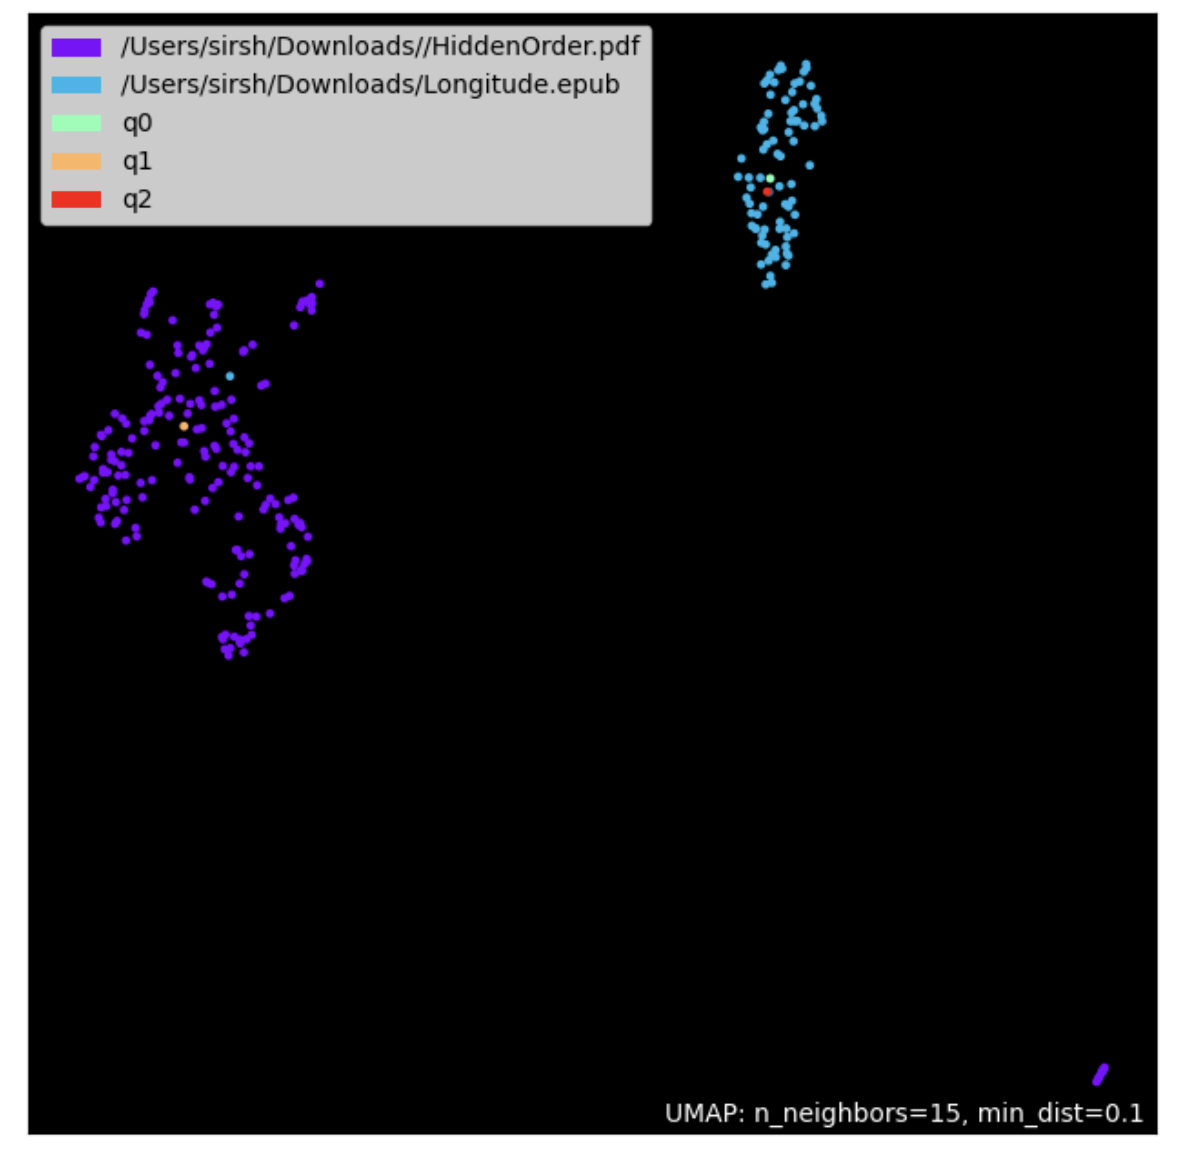
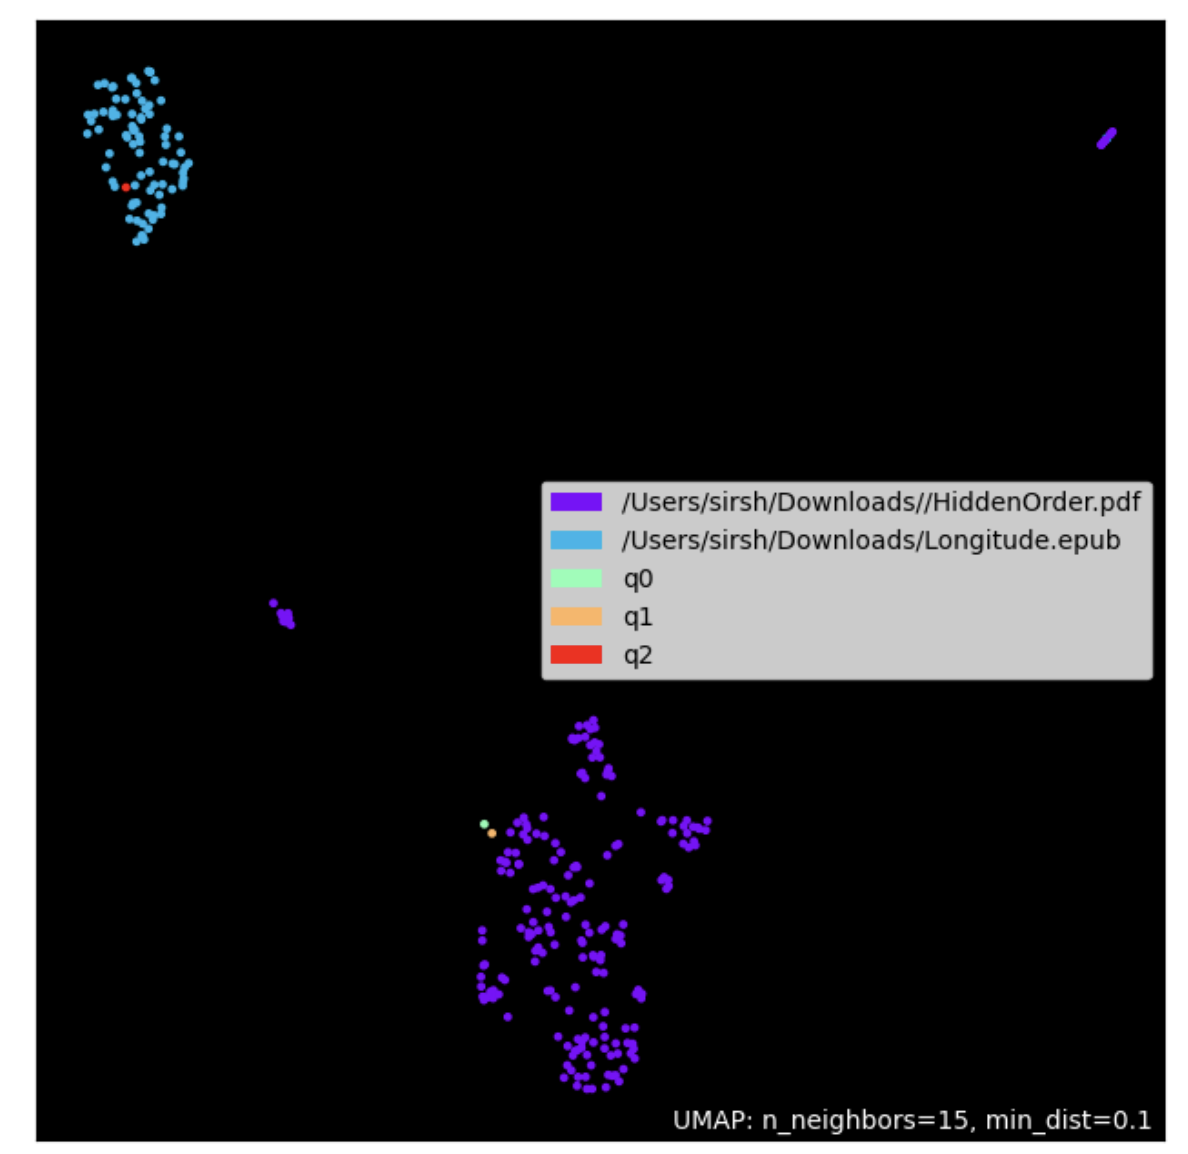
GITBOOK-23: change request with no subject merged in GitBook

diff --git a/docs/tutorials/1.-ingesting-data-into-a-new-instance.md b/docs/tutorials/1.-ingesting-data-into-a-new-instance.md
@@ -24,11 +24,11 @@ Unstructured data can be ingested into a named store by just pointing to a web p
 &#x20; Suppose you want to ingest a web page about FairyTales into a vector store
 
 ```python
-from funkyprompt.ops.entities import AbstractVectorStoreEntry
+from funkyprompt.model import InstructEmbeddingContentModel
 #source your data
 url = "https://www.gutenberg.org/files/20748/20748-h/20748-h.htm"
 #create a type for it - it does not need any attributes unless you want to add some
-class FairyTales(AbstractVectorStoreEntry):
+class FairyTales(InstructEmbeddingContentModel):
     pass
 ```
 
@@ -41,12 +41,12 @@ data = list(iterate_types_from_headed_paragraphs(url, FairyTales))
 
 Once you have typed data you can ingest it into a store (called FairyTales) in this case
 
-<pre class="language-python"><code class="lang-python">from funkyprompt.io.stores import VectorDataStore 
-#this will take a moment to generate the embeddings - by default OpenAI embeddings
+<pre class="language-python"><code class="lang-python">from funkyprompt.io import VectorDataStore 
+#this will take a moment to generate the embeddings  
 <strong>vs = VectorDataStore(FairyTales)
 </strong><strong>vs.add(data)
 </strong># ask some questions
-# vs("who is sinbad?")
+# vs("where did sinbad eventually settle down?")
 </code></pre>
 
 {% hint style="info" %}
@@ -55,15 +55,15 @@ To you other embeddings like Instruct check out the tutorial [5.-working-with-ve
 
 Now that we have data we can use this with our agent.
 
-The store can can allow is to ask questions and retrieve records. To make it explicty lets create a new function that loads this store and pass that to the agent. In practice we will want a more convenient discovery method but lets not get ahead of ourselves
+The store can can allow us to ask questions and retrieve records. To make it explicit lets create a new function that loads this store and pass that to the agent. In practice we will want a more convenient discovery method that just loads stores but lets take it step by step
 
 ```python
-def get_information_on_fairy_tale_characters(question:str):
+def get_information_on_fairy_tale_characters(questions:typing.List[str]):
     """
     Provides details about fairy take characters 
     
     **Args**
-        question: ask a question in sufficient detail
+        questions: ask one or more questions in sufficient detail
         
     **Returns**
         text details related to your question
@@ -73,12 +73,13 @@ def get_information_on_fairy_tale_characters(question:str):
     return vs(question)
 ```
 
-Now that we have a function we can describe it and pass it to our agent
+Now that we have a function we can describe it and pass it to our agent. In practice there will be far more convenient wats to do this but here we want to explain how it works in detail.
 
 ```python
 from funkyprompt import describe_function, agent
 
 agent("Who is sinbad and where did he eventually settle down?", 
+      #this is the default function to use to answer the question
       describe_function(get_information_on_fairy_tale_characters))
 ```
 
@@ -96,7 +97,7 @@ _2.a Using the typing system but for simple text cases_
 
 {% code overflow="wrap" %}
 ```python
-from funkyprompt.io.stores import VectorDataStore, AbstractVectorStoreEntry
+from funkyprompt.io import VectorDataStore, AbstractContentModel
 
 def get_recipes(what_to_cook: str):
     """
@@ -109,7 +110,9 @@ def get_recipes(what_to_cook: str):
         returns recipe / instructions
         
     """
-    vs = VectorDataStore(AbstractVectorStoreEntry.create_model('Recipe'))
+    #this examples shows dynamic model creation.
+    #the schema does not change but we can use the Name to control where the data go
+    vs = VectorDataStore(AbstractContentModel.create_model('Recipe'))
     return vs(what_to_cook)
 
 agent("give me a 5 bullet point summary obout what is involved in making kimchi", describe_function(get_recipes))  
@@ -155,12 +158,13 @@ PyArrow can be pydantic in its own way so for best results use clean data. The b
 {% code overflow="wrap" %}
 ```python
 from funkyprompt.io.tools.ingestion import ingest_pdf, ingest_arrow
+#todo pass a data converted e.g. index-> name as string and datetime columns
 store = ingest_arrow("NycTaxiData", "../nyc_trip_data_ingest.csv", key_field='index')
 store
 ```
 {% endcode %}
 
-This will create a model and create a ColumnarDataStore with that model. The `key_field` is required. If if its not added on the Pydantic model (which wont be for dynamic models) it must be specified here.
+This will create a model and create a ColumnarDataStore with that model. The `key_field` is required. If if its not added on the Pydantic model (which it wont be for dynamic models) it must be specified here.
 
 You can now ask questions of this store - the store uses an LLM to generate DuckDB queries over parquet data stored locally or on S3 depending on how you configured storage during [install.md](../why-funkyprompt/install.md "mention"). The schema and enums from the data are sent to the LLM to facilitate inference of sensible predicates. Here is a simple example; question is converted into SQL using an LLM, executed against the store, and the result is returned.
 

diff --git a/docs/tutorials/5.-working-with-vector-searches-and-embeddings.md b/docs/tutorials/5.-working-with-vector-searches-and-embeddings.md
@@ -25,28 +25,30 @@ In `funkyprompt` we lean on function signatures or Pydantic as much as we can to
 We can use different embeddings with our vector store and we control it by the Pydantic types, which know the vector lengths to use in setting up the `pyarrow` schema that we use in the vector store
 {% endhint %}
 
-You can inherit from any base type and add at least one `vector` property. To illustrat we will create a general "Instruct" base type
+You can inherit from any base type and add at least one `vector` property. To illustrate we will create a general "Instruct" base type. The default embedding for the `AbstractContentModel` is the `openai` embedding provider.
 
 ```python
-python
-class InstructAbstractVectorStoreEntry(AbstractVectorStoreEntry):
-    class Config:
-        embeddings_provider = "instruct"
+class InstructEmbeddingContentModel(AbstractContentModel):
+    """ """
+    vector: Vector(
+        EmbeddingFunctions.instruct.ndims()
+    ) = EmbeddingFunctions.instruct.VectorField()
+    content: str = EmbeddingFunctions.instruct.SourceField()
 
-    vector: Optional[List[float]] = Field(
-        fixed_size_length=INSTRUCT_EMBEDDING_VECTOR_LENGTH,
-        default_factory=list,
-    )
 ```
 
-Observe that we configure the embedding provider and also configure the vector length. Now we can create a VectorStore from this or something constructed/inherited from this.
+Observe that we configure the embedding provider and also configure the vector length. Now we can create a VectorStore from this or something constructed/inherited from this.&#x20;
+
+{% hint style="info" %}
+In the early versions of funkyprompt I wrote all the Pydantic mappings and Embedding management from scratch. But it turns out LanceDB has some great semantics for combining the underlying lance/pyarrow schema, the embeddings and Pydantic. You can read more about it [here](https://lancedb.github.io/lancedb/embeddings/) - above we have use the Lance approach which means we can add and search content and LanceDB will apply the embeddings under the hood making for simpler code!
+{% endhint %}
 
 ```python
-from funkyprompt.io.stores import VectorDataStore
-store = VectorStore(InstructAbstractVectorStoreEntry)
+from funkyprompt.io import VectorDataStore
+store = VectorStore(InstructEmbeddingContentModel, description='my store')
 ```
 
-Under the hood, the `ingest_pdf` simply does this, constructing a model for the right embedding provider and then ingesting data into the vector store as discussed in the previous Tutorial.
+Under the hood, the `ingest_pdf` simply creates a model and store in this way, constructing a model for the right embedding provider and then ingesting data into the vector store as discussed in the previous Tutorial.
 
 ***
 
@@ -67,7 +69,7 @@ After we ingest these we can use stores to do vector searches for each type.
 
 {% code overflow="wrap" %}
 ```python
-from funkyprompt.io.stores import VectorDataStore
+from funkyprompt.io import VectorDataStore
 #you can either create the type / import the type or dynamically infer it by name
 open_ai_store = VectorStore._load_vector_store("BookChapters-open-ai")
 instruct_store = VectorStore._load_vector_store("BookChapters-instruct", embeddings_provider='instruct') 
@@ -144,7 +146,7 @@ q2: 'what can you tell me about the invention of the H-4 clock for sailing and n
 ```
 {% endcode %}
 
-<figure><img src="../.gitbook/assets/image.png" alt="" width="563"><figcaption><p>Two books and three questions</p></figcaption></figure>
+<figure><img src="../.gitbook/assets/image (1).png" alt="" width="563"><figcaption><p>Two books and three questions</p></figcaption></figure>
 
 We see that both the composite question and the question about complexity is near the HiddenOrder book while the question about the _H-4 clock_ is near the _Longitude_ book. The "problem" here is that if we ask Q0, we will not retrieve anything about the clock.
 
@@ -188,7 +190,7 @@ _Visual of OpenAI embedding_
 
 Before moving on, also plot the OpenAI embedding. Note there is a stochastic element to these and over several realizations I am making for qualitative observations. Qualitatively the two embeddings separate the books. I get the impression that the OpenAI seem slight more compact or densely packed but I am not sure. Also, there is a datapoint from _Longitude_ that consistently appears in the _HiddenOrder_ section.
 
-<figure><img src="../.gitbook/assets/image (1).png" alt="" width="563"><figcaption><p>Open AI embeddings in store with UMAP visual</p></figcaption></figure>
+<figure><img src="../.gitbook/assets/image (1) (1).png" alt="" width="563"><figcaption><p>Open AI embeddings in store with UMAP visual</p></figcaption></figure>
 
 It turns out when we use the interactive UMAP to see what the text data point is its the single word "solution" - most of these data points represent much larger text paragraphs.&#x20;
 

diff --git a/docs/tutorials/2-creating-functions-over-stores.md b/docs/tutorials/2-creating-functions-over-stores.md
@@ -4,5 +4,30 @@ description: How we discover stores and functions to query them
 
 # 2 Creating functions over stores
 
-The agent has an `available_functions_search` that it can use to lookup functions. It can also be supplied with a list of functions up front. We always want to use the supplied functions and only fall back to the search if needed. This means the functions also need to be describe what they can do (and cannot do) so the interpret will use them first if it is sensible to do so.
+The agent has an `available_functions_search` that it can use to lookup functions. It can also be supplied with a list of functions up front. We always want to use the supplied functions and only fall back to the search if needed. This means the functions also need to describe what they can do (and cannot do) so the interpreter will use them first if it is sensible to do so.\
+
+
+In `funkyprompt` we can have different types of functions; `api` , `default` `stores` are thee types. `api` uses a proxy to make REST requests. `stores` are actually different types of stores like `vector-store` and `columnar-store` while the `default` will just load functions in python from a registry. In all cases we save the functions to a registry.
+
+When creating a store like a vector store, when it is crated for the first time it will register the store in a registry. This registry is in fact just another vector-store that can be searched.&#x20;
+
+```
+from funkyprompt import FunkyRegistry
+reg = FunkyRegistry()
+reg.load() #this will list a Polars dataframe of functions
+```
+
+<figure><img src="../.gitbook/assets/image.png" alt=""><figcaption><p>sample functions</p></figcaption></figure>
+
+The content of the function description is embedded for search. The \`metadata\` describes how to reconstruct the function. For example for these stores, a factory can be use to load the correct stores and expose its search function.
+
+While stores are registered on creation, we can see how this is done by explicitly registering the function again
+
+```
+Model = InstructEmbeddingContentModel.create_model('BookChapters')
+store = VectorDataStore(Model, description="A store of different book chapters")
+store.register_store()
+```
+
+This allows us to search for stores/functions in different way. We could do a lookup on function names or we could do a vector search on possibly long-form textual descriptinos of what functions can do. This is design for a case when we have a very large number of functions/stores.
 
